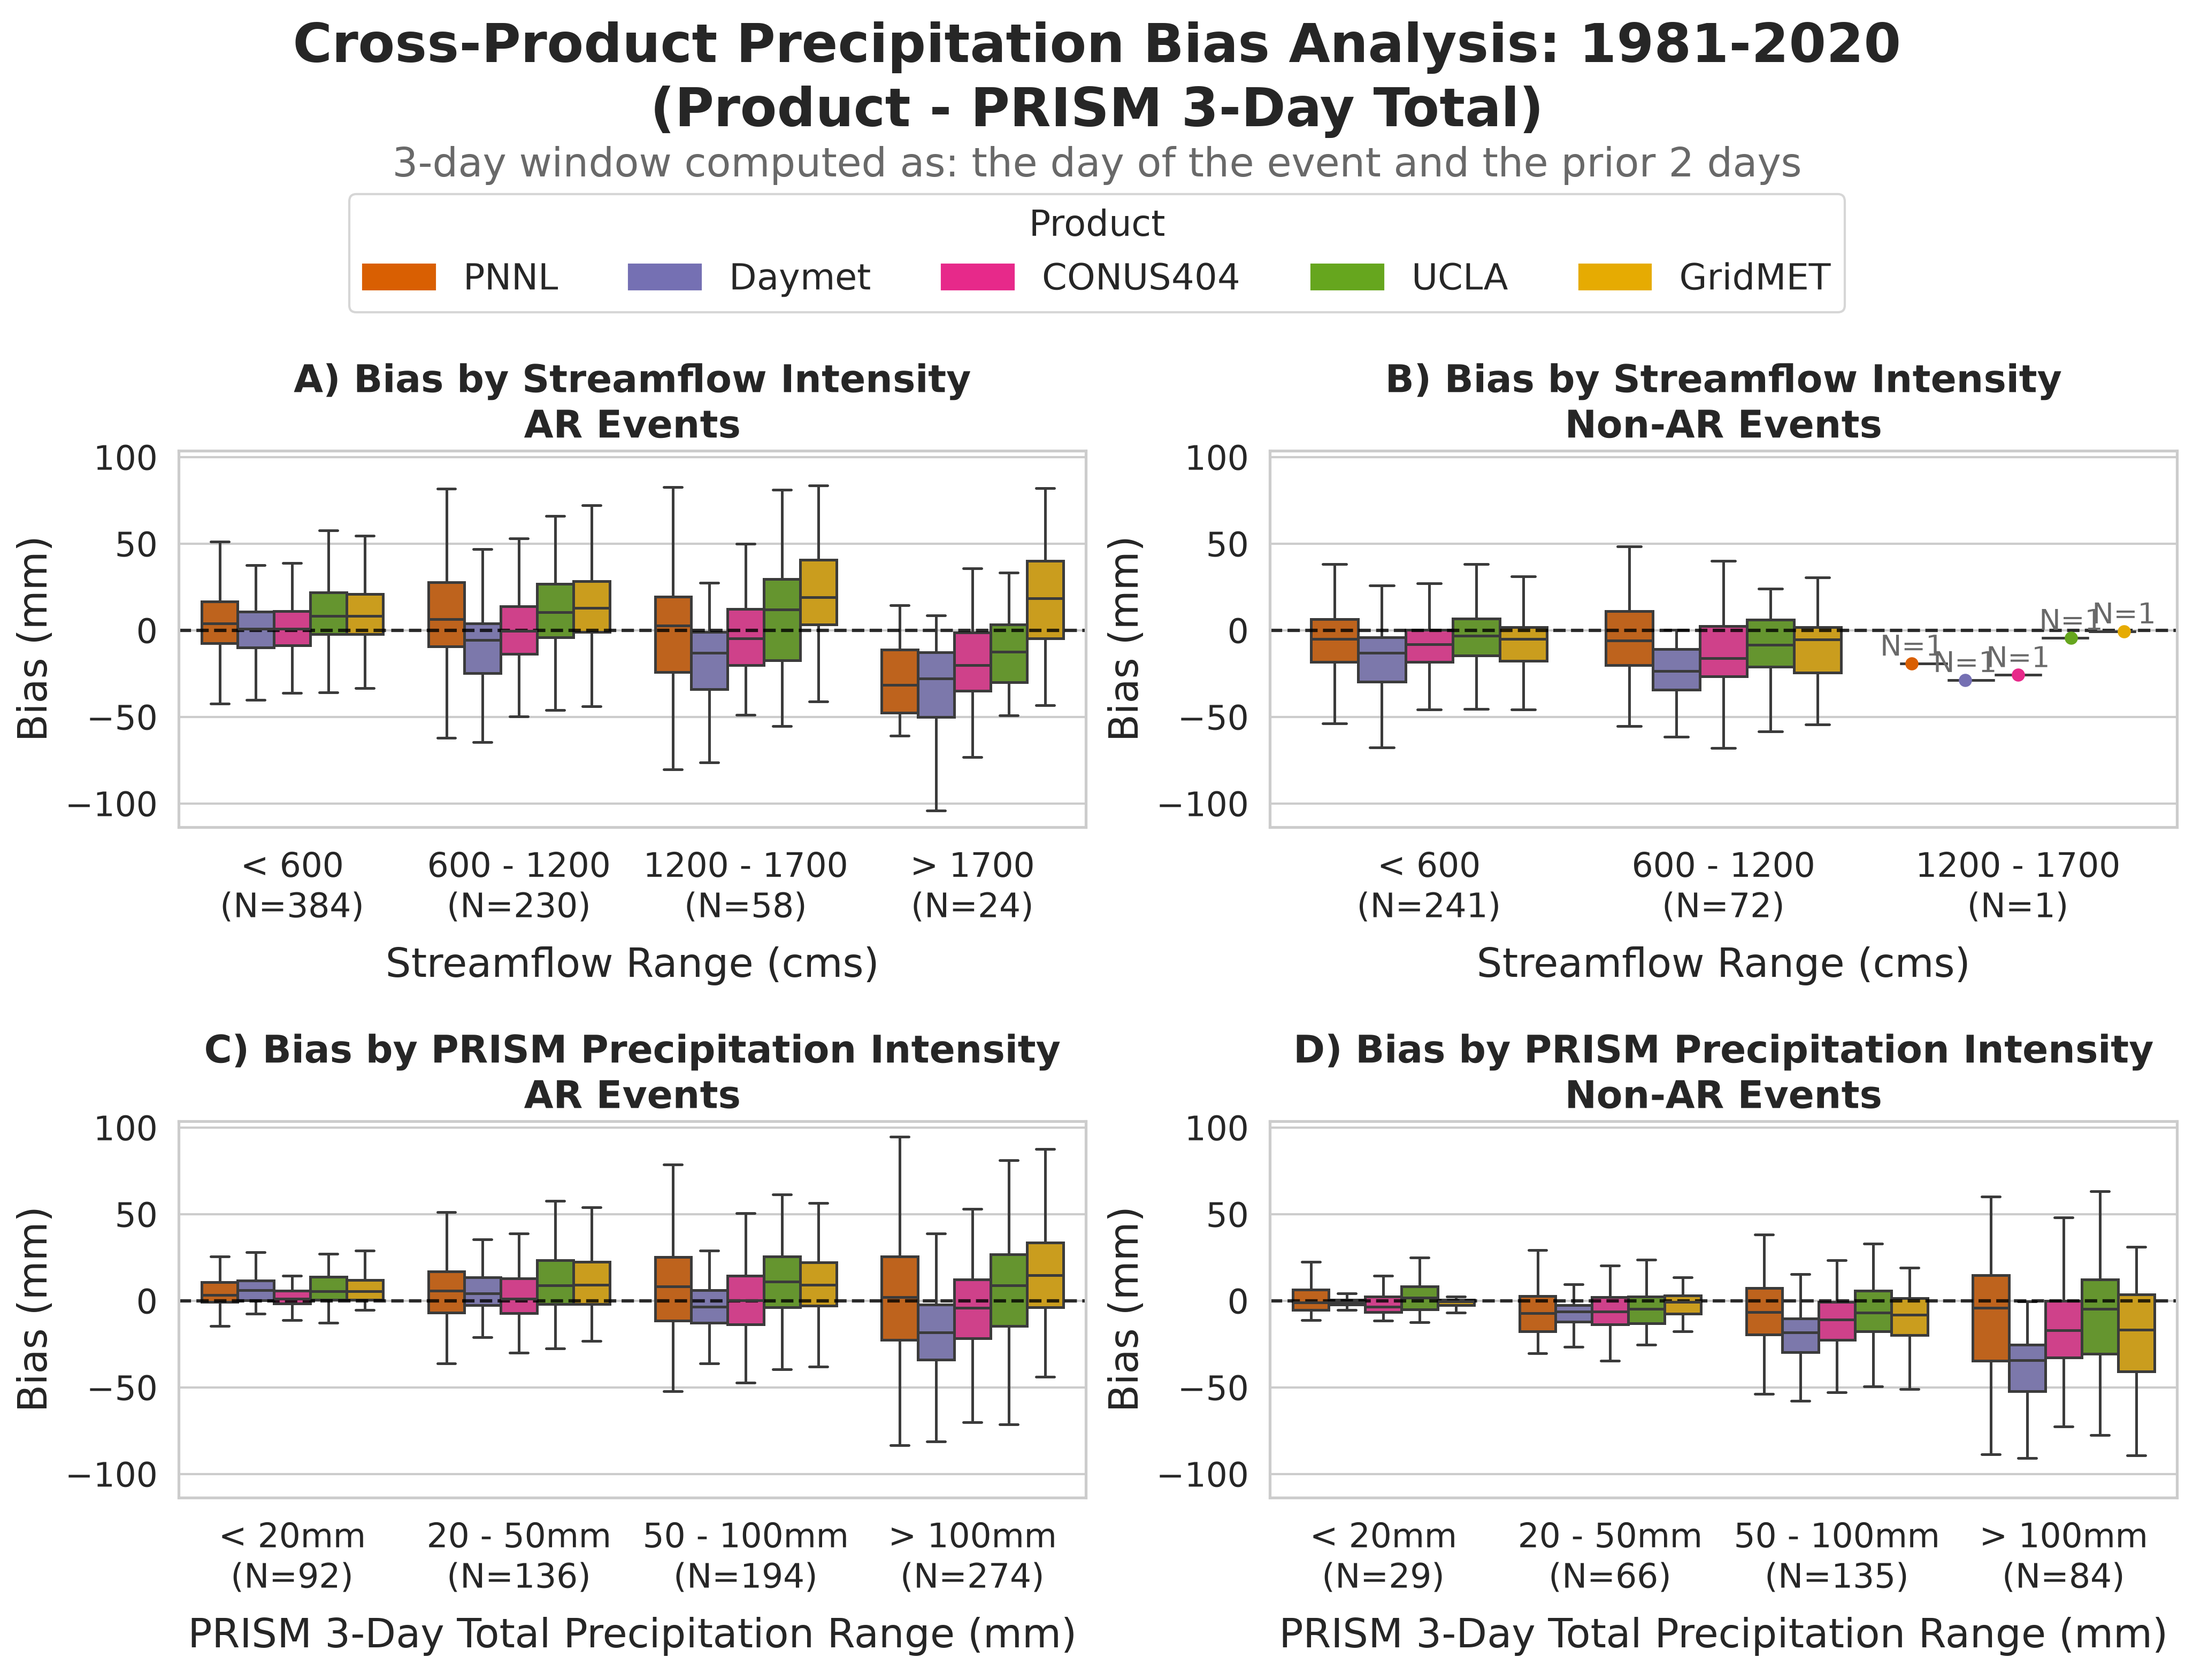
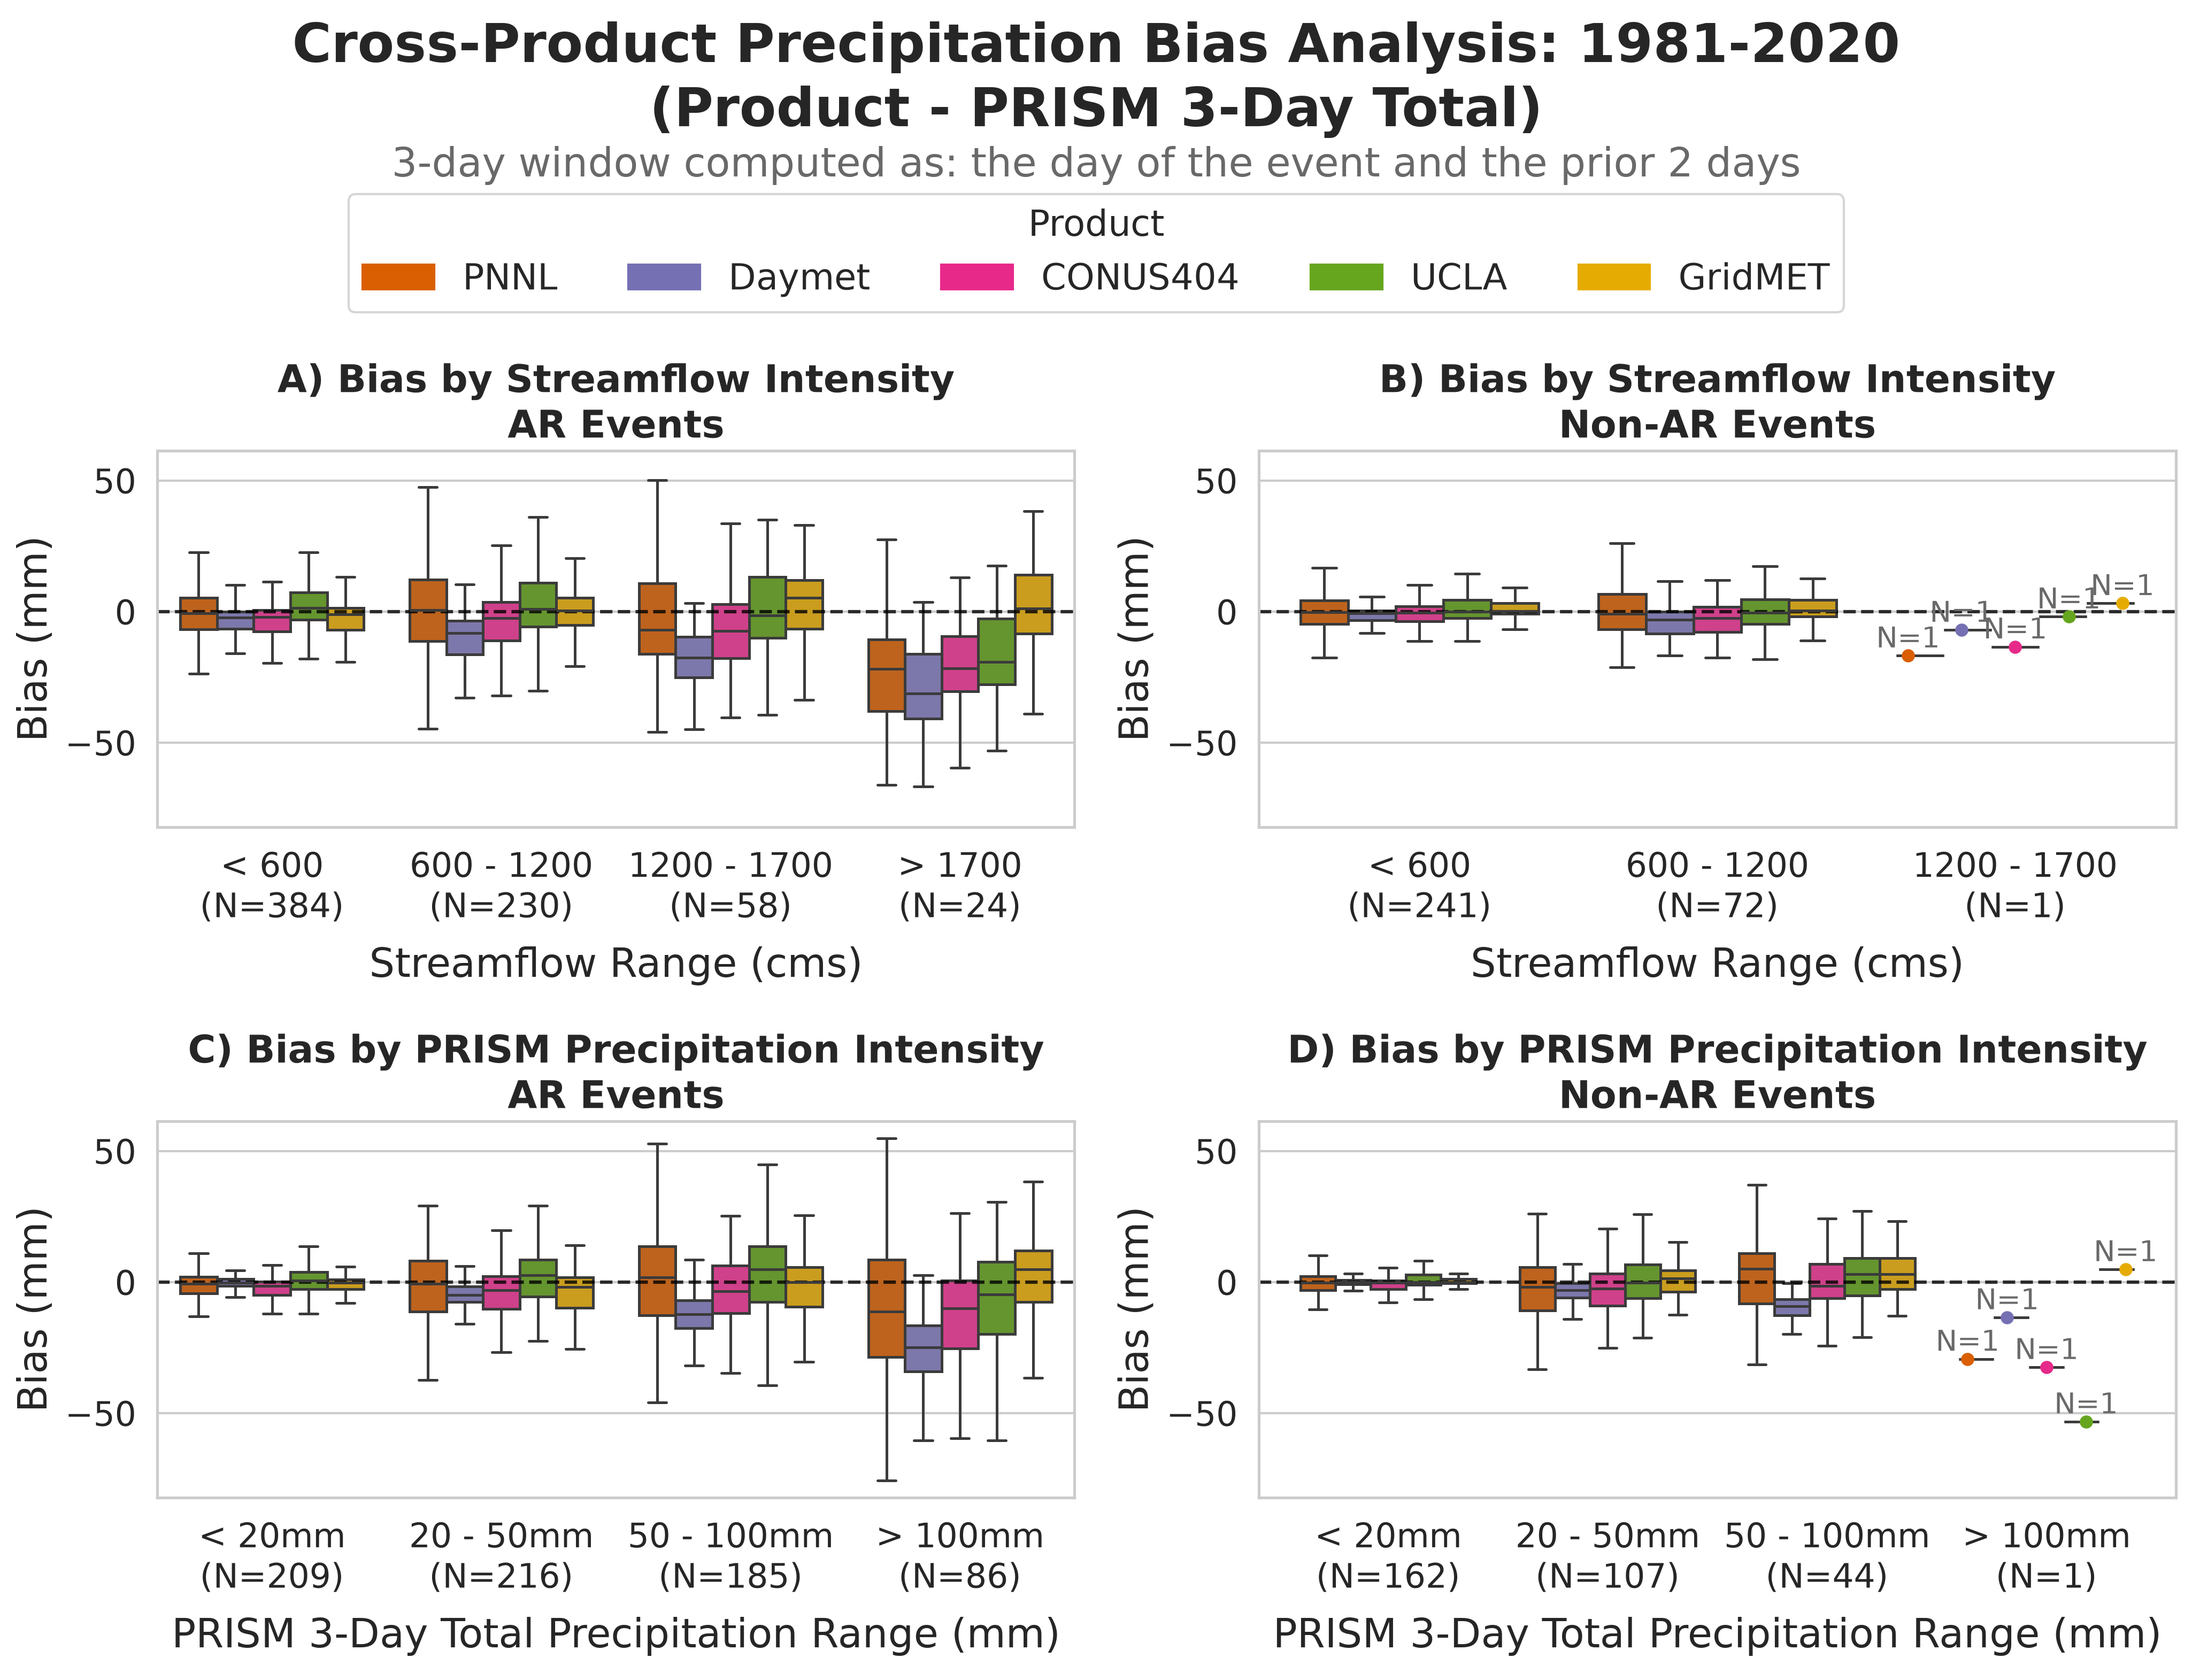
Bias boxplots: use PRISM-day snapshot; figures 7 and 9 plot the 3-day bias
- DATA_VARIANT selects the event-table snapshot; default is the aligned
  5day_taking_min_and_filling_prism_day.
- Figures 7 and 9 now plot the 3-day bias (WINDOW = "3d"), with 3-day PRISM
  classes, matching their titles; WINDOW = "7d" gives the 7-day version with
  correct labels. Figure 9.5 stays 7-day.
After alignment the "products wetter than PRISM in AR events, drier in non-AR
events" contrast largely disappears; the largest storms stay underestimated.

diff --git a/skagit_met_for_publication/plots/bias_boxplots/7_corrected_plot_prism_bias.py b/skagit_met_for_publication/plots/bias_boxplots/7_corrected_plot_prism_bias.py
@@ -8,14 +8,16 @@ bias (product - PRISM) of five gridded products over 1981-2020:
     C) Bias by streamflow intensity (AR and non-AR events)
     D) Bias by PRISM precipitation intensity (AR and non-AR events)
 
-The 3-day window is the event day plus the two prior days. Boxes hide
+The 3-day window is the event day plus the two prior days (WINDOW = "3d"; set
+WINDOW = "7d" for the 7-day window). Precipitation classes use the PRISM total
+over the same window. Boxes hide
 outliers; product/bin combinations with fewer than 3 events are additionally
 drawn as individual points annotated with their count. X-axis tick labels
 report the number of unique events in each bin. All panels share a common
 y-axis range.
 
 Input
-    analysis/outputs/5day_taking_min_and_filling/5_prepared_bias_table.csv
+    analysis/outputs/<DATA_VARIANT>/5_prepared_bias_table.csv
 Output
     plots/bias_boxplots/plots/grouped_bias_3_metrics_2_periods.png
 
@@ -33,9 +35,18 @@ from matplotlib.patches import Patch
 
 # Paths are resolved relative to this file: <repo>/skagit_met_for_publication/
 BASE_DIR = Path(__file__).resolve().parents[2]
-INPUT_CSV = BASE_DIR / "analysis" / "outputs" / "5day_taking_min_and_filling" / "5_prepared_bias_table.csv"
+# Event-table snapshot in analysis/outputs/: "5day_taking_min_and_filling" (product dates as labelled)
+# or "5day_taking_min_and_filling_prism_day" (all products on the PRISM day, 12-12 UTC; issue #61)
+DATA_VARIANT = "5day_taking_min_and_filling_prism_day"
+INPUT_CSV = BASE_DIR / "analysis" / "outputs" / DATA_VARIANT / "5_prepared_bias_table.csv"
 OUT_DIR = BASE_DIR / "plots" / "bias_boxplots" / "plots"
 OUT_IMG = OUT_DIR / "grouped_bias_3_metrics_2_periods.png"
+
+# Accumulation window of the bias and of the PRISM precipitation classes:
+# "3d" (event day + 2 prior days) or "7d" (event day + 6 prior days)
+WINDOW = "3d"
+WINDOW_TEXT = {"3d": ("3-Day", "the day of the event and the prior 2 days"),
+               "7d": ("7-Day", "the day of the event and the prior 6 days")}
 
 # Analysis settings
 START_YEAR, END_YEAR = 1981, 2020
@@ -82,6 +93,11 @@ def plot_prism_bias():
     print("Loading prepared bias table...")
     df = pd.read_csv(INPUT_CSV)
     df["date"] = pd.to_datetime(df["date"])
+
+    # For the 3-day window, use the 3-day bias and class columns under the standard names.
+    if WINDOW == "3d":
+        df = df.drop(columns=PRODUCTS + ["Precipitation Bucket (mm)"]).rename(
+            columns={**{f"{p}_3d": p for p in PRODUCTS}, "Precipitation Bucket 3d (mm)": "Precipitation Bucket (mm)"})
 
     # Keep only valid AR scale values.
     df = df.dropna(subset=["ar_scale"])
@@ -164,11 +180,12 @@ def plot_prism_bias():
 
     plot_panel(axes[0, 1], period1[period1["ar_scale"] == 0], "Precipitation Bucket (mm)", custom_sort_precipitation)
     axes[0, 1].set_title("B) Bias by PRISM Precipitation Intensity\nNon-AR Events", weight="bold")
-    axes[0, 1].set_xlabel("PRISM 3-Day Total Precipitation Range (mm)", labelpad=8)
+    win_label, win_desc = WINDOW_TEXT[WINDOW]
+    axes[0, 1].set_xlabel(f"PRISM {win_label} Total Precipitation Range (mm)", labelpad=8)
 
     plot_panel(axes[1, 1], period1, "Precipitation Bucket (mm)", custom_sort_precipitation)
     axes[1, 1].set_title("D) Bias by PRISM Precipitation Intensity\nAR and Non-AR Events", weight="bold")
-    axes[1, 1].set_xlabel("PRISM 3-Day Total Precipitation Range (mm)", labelpad=8)
+    axes[1, 1].set_xlabel(f"PRISM {win_label} Total Precipitation Range (mm)", labelpad=8)
 
     # One shared legend for the whole figure instead of one per panel.
     handles = [Patch(facecolor=PALETTE[p], edgecolor=PALETTE[p], label=p) for p in PRODUCTS]
@@ -179,8 +196,8 @@ def plot_prism_bias():
     for ax in axes.flat:
         ax.get_legend().remove()
 
-    plt.suptitle(f"Cross-Product Precipitation Bias Analysis: {START_YEAR}-{END_YEAR}\n(Product - PRISM 3-Day Total)", fontsize=FONT_SUPTITLE, weight="bold", y=1.05)
-    fig.text(0.5, 0.95, "3-day window computed as: the day of the event and the prior 2 days", ha="center", fontsize=FONT_SUBTITLE, color="dimgray")
+    plt.suptitle(f"Cross-Product Precipitation Bias Analysis: {START_YEAR}-{END_YEAR}\n(Product - PRISM {win_label} Total)", fontsize=FONT_SUPTITLE, weight="bold", y=1.05)
+    fig.text(0.5, 0.95, f"{win_label.lower()} window computed as: {win_desc}", ha="center", fontsize=FONT_SUBTITLE, color="dimgray")
 
     plt.tight_layout(rect=[0, 0, 1, 0.97])
 

diff --git a/skagit_met_for_publication/plots/bias_boxplots/9_prism_bias_ar_vs_nonar.py b/skagit_met_for_publication/plots/bias_boxplots/9_prism_bias_ar_vs_nonar.py
@@ -9,14 +9,16 @@ atmospheric river (AR) events (left column) with non-AR events (right column):
     C) Bias by PRISM precipitation intensity, AR events
     D) Bias by PRISM precipitation intensity, non-AR events
 
-The 3-day window is the event day plus the two prior days. Boxes hide
+The 3-day window is the event day plus the two prior days (WINDOW = "3d"; set
+WINDOW = "7d" for the 7-day window). Precipitation classes use the PRISM total
+over the same window. Boxes hide
 outliers; product/bin combinations with fewer than 3 events are additionally
 drawn as individual points annotated with their count. X-axis tick labels
 report the number of unique events in each bin. All panels share a common
 y-axis range.
 
 Input
-    analysis/outputs/5day_taking_min_and_filling/5_prepared_bias_table.csv
+    analysis/outputs/<DATA_VARIANT>/5_prepared_bias_table.csv
 Output
     plots/bias_boxplots/plots/9_prism_bias_ar_vs_nonar.png
 
@@ -34,9 +36,18 @@ from matplotlib.patches import Patch
 
 # Paths are resolved relative to this file: <repo>/skagit_met_for_publication/
 BASE_DIR = Path(__file__).resolve().parents[2]
-INPUT_CSV = BASE_DIR / "analysis" / "outputs" / "5day_taking_min_and_filling" / "5_prepared_bias_table.csv"
+# Event-table snapshot in analysis/outputs/: "5day_taking_min_and_filling" (product dates as labelled)
+# or "5day_taking_min_and_filling_prism_day" (all products on the PRISM day, 12-12 UTC; issue #61)
+DATA_VARIANT = "5day_taking_min_and_filling_prism_day"
+INPUT_CSV = BASE_DIR / "analysis" / "outputs" / DATA_VARIANT / "5_prepared_bias_table.csv"
 OUT_DIR = BASE_DIR / "plots" / "bias_boxplots" / "plots"
 OUT_IMG = OUT_DIR / "9_prism_bias_ar_vs_nonar.png"
+
+# Accumulation window of the bias and of the PRISM precipitation classes:
+# "3d" (event day + 2 prior days) or "7d" (event day + 6 prior days)
+WINDOW = "3d"
+WINDOW_TEXT = {"3d": ("3-Day", "the day of the event and the prior 2 days"),
+               "7d": ("7-Day", "the day of the event and the prior 6 days")}
 
 # Analysis settings
 START_YEAR, END_YEAR = 1981, 2020
@@ -80,6 +91,11 @@ def plot_prism_bias():
     print("Loading prepared bias table...")
     df = pd.read_csv(INPUT_CSV)
     df["date"] = pd.to_datetime(df["date"])
+
+    # For the 3-day window, use the 3-day bias and class columns under the standard names.
+    if WINDOW == "3d":
+        df = df.drop(columns=PRODUCTS + ["Precipitation Bucket (mm)"]).rename(
+            columns={**{f"{p}_3d": p for p in PRODUCTS}, "Precipitation Bucket 3d (mm)": "Precipitation Bucket (mm)"})
 
     # Keep only valid AR scale values.
     df = df.dropna(subset=["ar_scale"])
@@ -165,11 +181,12 @@ def plot_prism_bias():
 
     plot_panel(axes[1, 0], ar_events, "Precipitation Bucket (mm)", custom_sort_precipitation)
     axes[1, 0].set_title("C) Bias by PRISM Precipitation Intensity\nAR Events", weight="bold")
-    axes[1, 0].set_xlabel("PRISM 3-Day Total Precipitation Range (mm)", labelpad=8)
+    win_label, win_desc = WINDOW_TEXT[WINDOW]
+    axes[1, 0].set_xlabel(f"PRISM {win_label} Total Precipitation Range (mm)", labelpad=8)
 
     plot_panel(axes[1, 1], non_ar_events, "Precipitation Bucket (mm)", custom_sort_precipitation)
     axes[1, 1].set_title("D) Bias by PRISM Precipitation Intensity\nNon-AR Events", weight="bold")
-    axes[1, 1].set_xlabel("PRISM 3-Day Total Precipitation Range (mm)", labelpad=8)
+    axes[1, 1].set_xlabel(f"PRISM {win_label} Total Precipitation Range (mm)", labelpad=8)
 
     # One shared legend for the whole figure instead of one per panel.
     handles = [Patch(facecolor=PALETTE[p], edgecolor=PALETTE[p], label=p) for p in PRODUCTS]
@@ -180,8 +197,8 @@ def plot_prism_bias():
     for ax in axes.flat:
         ax.get_legend().remove()
 
-    plt.suptitle(f"Cross-Product Precipitation Bias Analysis: {START_YEAR}-{END_YEAR}\n(Product - PRISM 3-Day Total)", fontsize=FONT_SUPTITLE, weight="bold", y=1.05)
-    fig.text(0.5, 0.95, "3-day window computed as: the day of the event and the prior 2 days", ha="center", fontsize=FONT_SUBTITLE, color="dimgray")
+    plt.suptitle(f"Cross-Product Precipitation Bias Analysis: {START_YEAR}-{END_YEAR}\n(Product - PRISM {win_label} Total)", fontsize=FONT_SUPTITLE, weight="bold", y=1.05)
+    fig.text(0.5, 0.95, f"{win_label.lower()} window computed as: {win_desc}", ha="center", fontsize=FONT_SUBTITLE, color="dimgray")
 
     plt.tight_layout(rect=[0, 0, 1, 0.97])
 

diff --git a/skagit_met_for_publication/plots/bias_boxplots/9.5_prism_bias_ar_vs_nonar_by_prior_events.py b/skagit_met_for_publication/plots/bias_boxplots/9.5_prism_bias_ar_vs_nonar_by_prior_events.py
@@ -37,7 +37,10 @@ from matplotlib.patches import Patch
 
 # Paths are resolved relative to this file: <repo>/skagit_met_for_publication/
 BASE_DIR = Path(__file__).resolve().parents[2]
-DATA_DIR = BASE_DIR / "analysis" / "outputs" / "5day_taking_min_and_filling"
+# Event-table snapshot in analysis/outputs/: "5day_taking_min_and_filling" (product dates as labelled)
+# or "5day_taking_min_and_filling_prism_day" (all products on the PRISM day, 12-12 UTC; issue #61)
+DATA_VARIANT = "5day_taking_min_and_filling_prism_day"
+DATA_DIR = BASE_DIR / "analysis" / "outputs" / DATA_VARIANT
 BIAS_CSV = DATA_DIR / "5_prepared_bias_table.csv"
 PRIOR_EVENTS_CSV = DATA_DIR / "3.5_events_with_prior_counts.csv"
 OUT_DIR = BASE_DIR / "plots" / "bias_boxplots" / "plots" / "prior_events"
